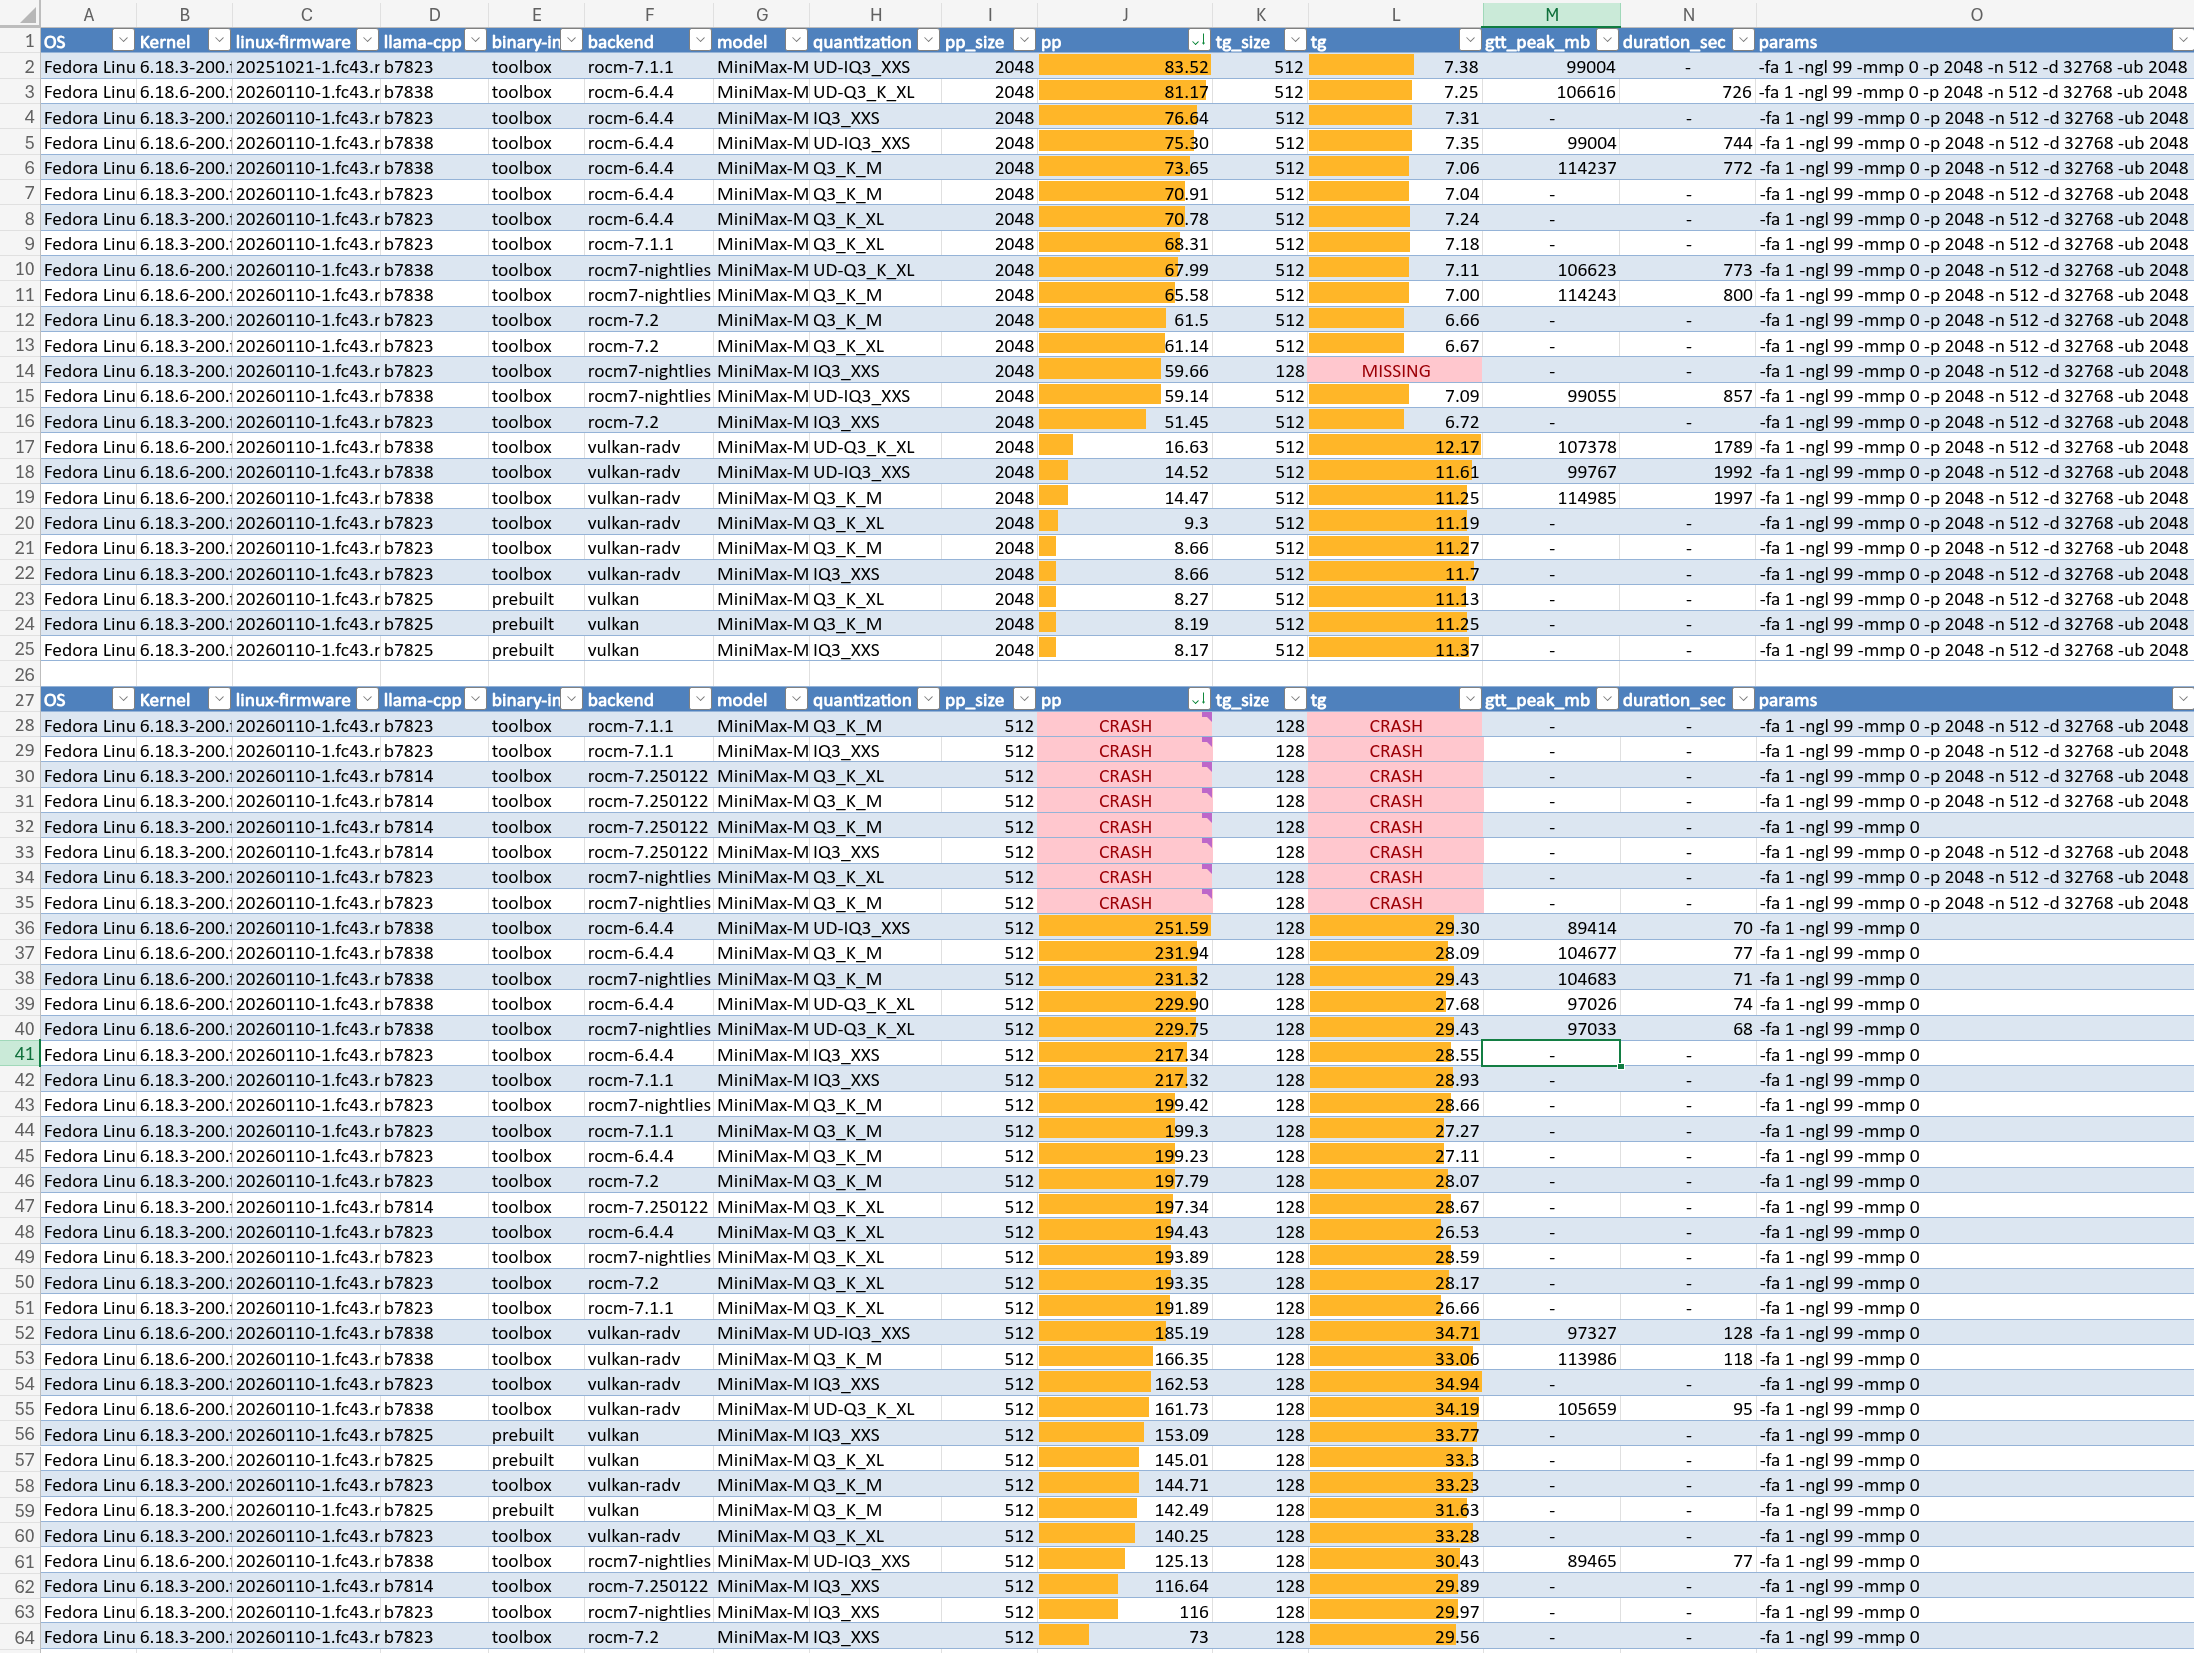
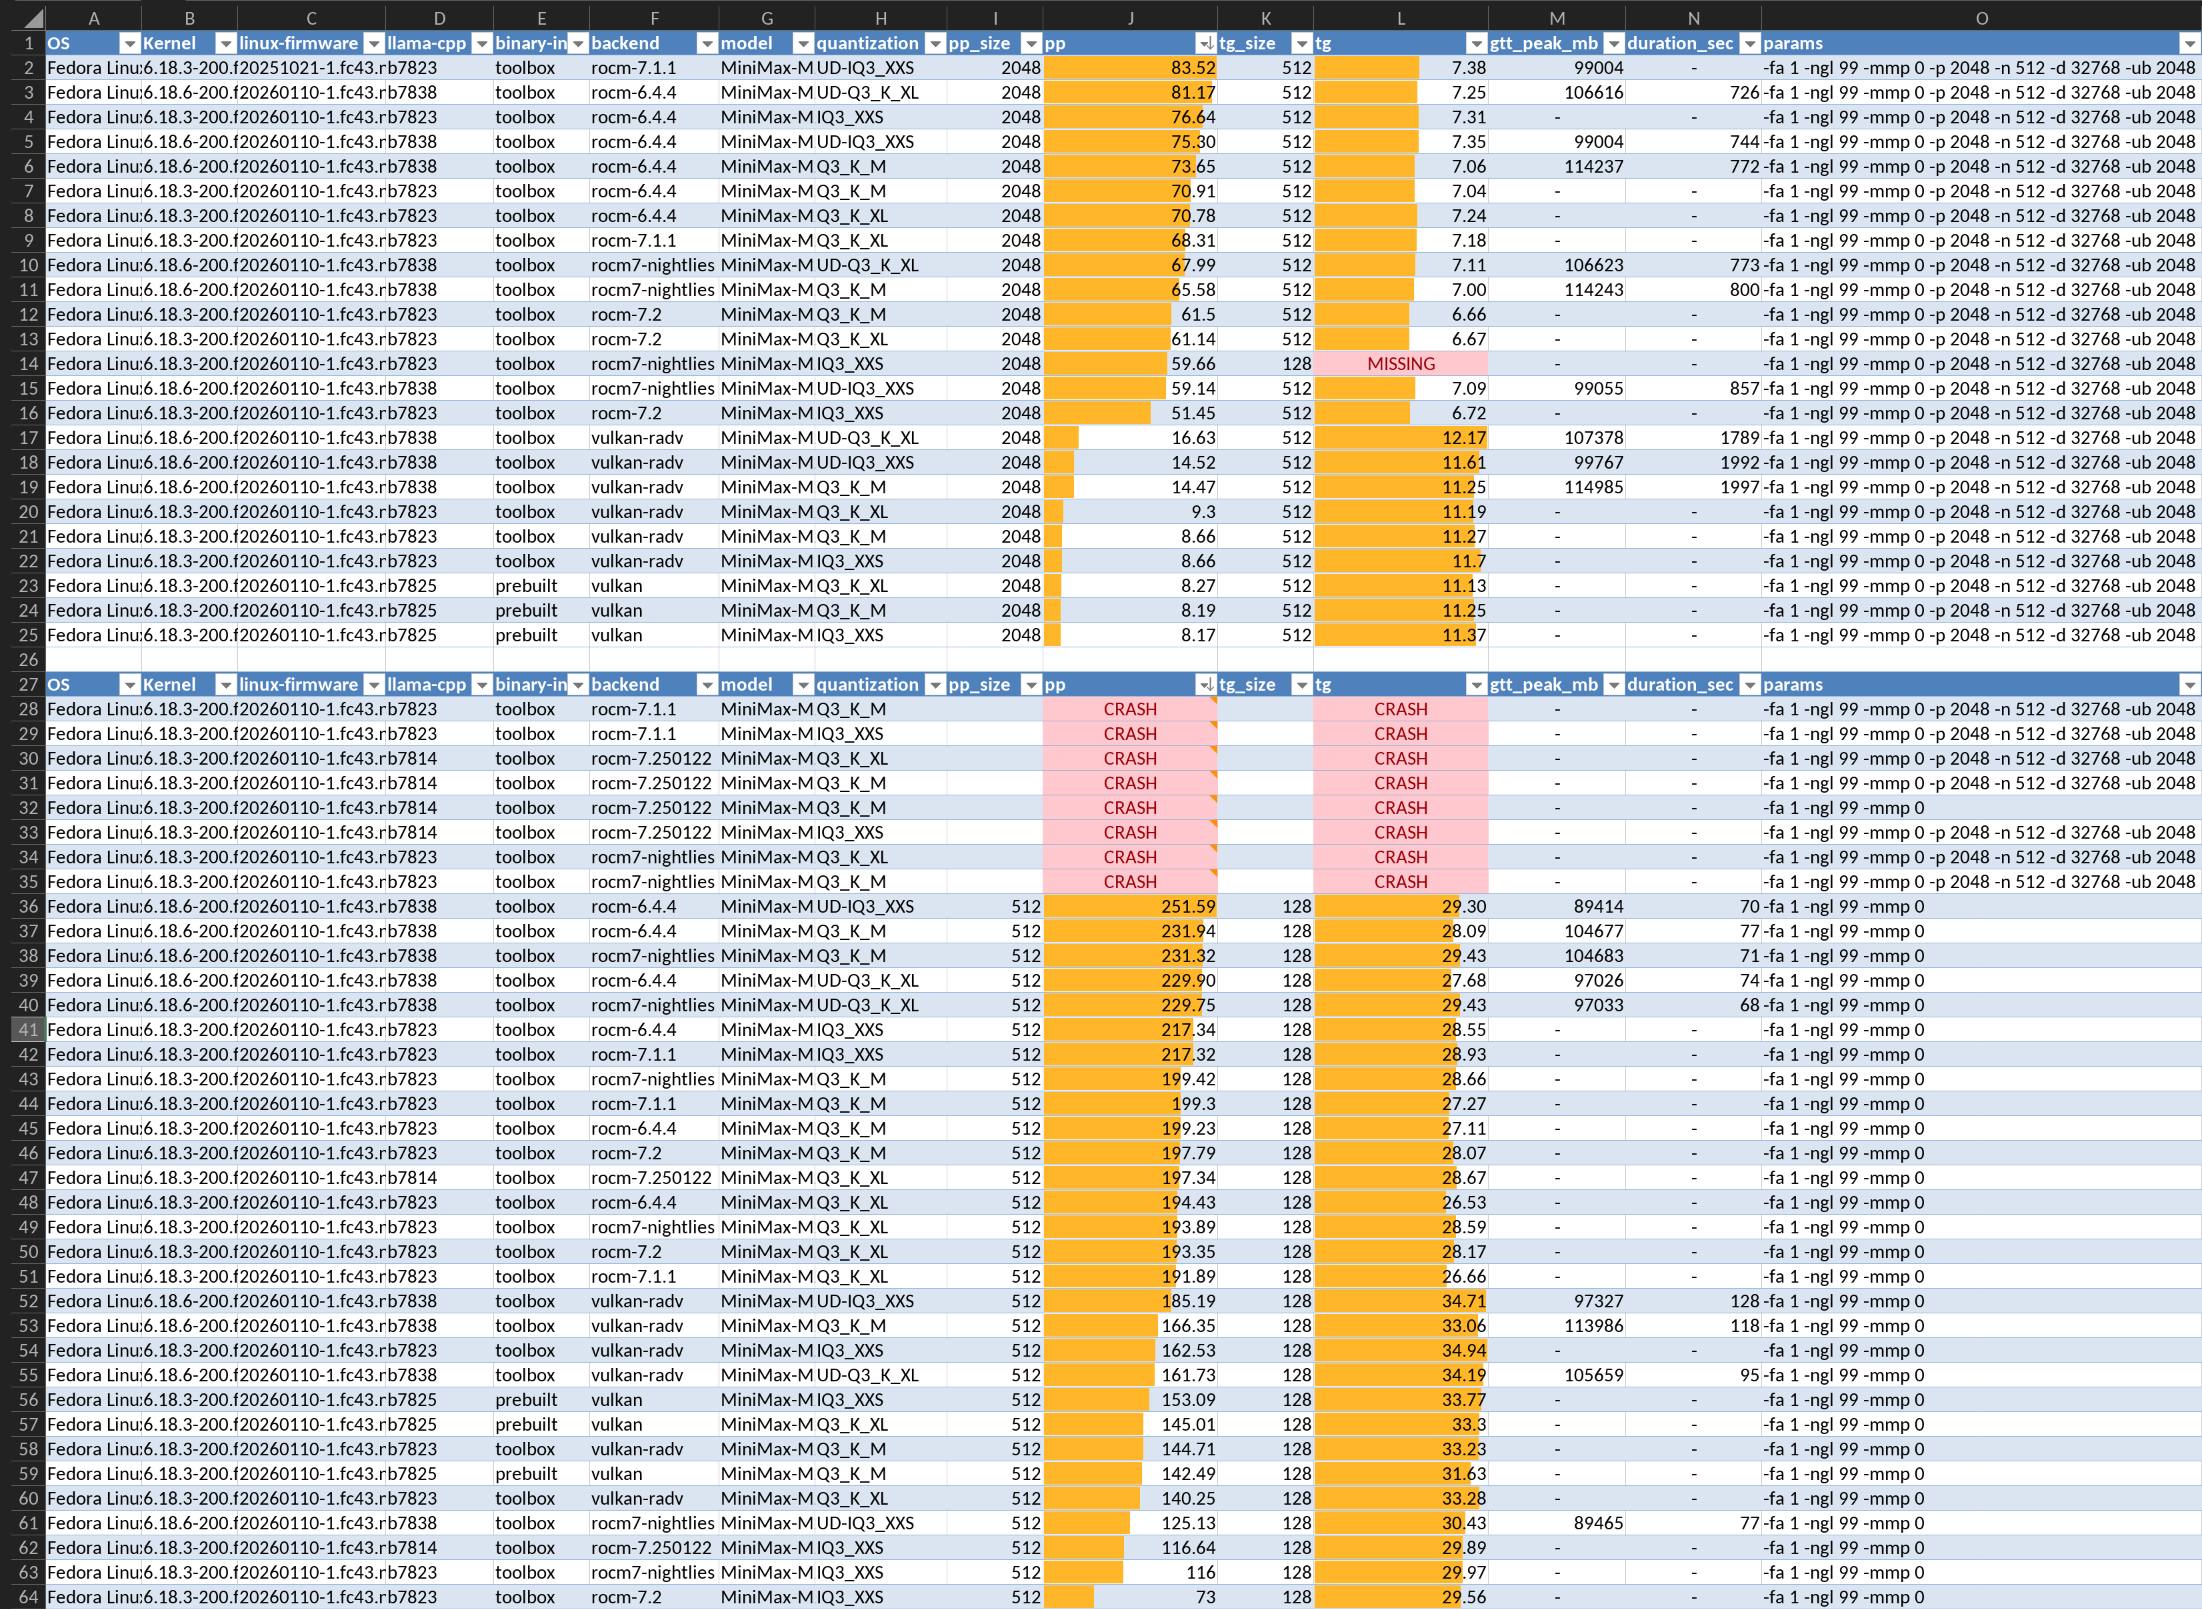
updated the results and clarified order

diff --git a/README.md b/README.md
@@ -29,6 +29,10 @@ Maybe incorporate some sort of quality metrics for intelligence or quality of to
 
 I've checked in the actual results I got into the results-published/ folder, check those out. You can see the raw logs too if you need some some reason(!). I wanted to understand some of the numbers myself, so I formatted the Excel (Excel files also check into the published results if you want to pivot table away!)
 
+All graphs show
+- Medium context scenario: 2048 input prompt processing and 512 output token generation. Then,
+- Small context scenario: 512 input prompt processing and 128 output token generation.
+
 ### MiniMax M2.1
 
 ![graph](results-published/MiniMax.M2.1.Unsloth/MiniMax-M2.1-speedtest.png)
